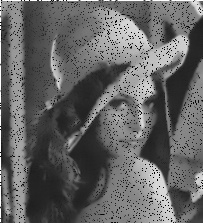
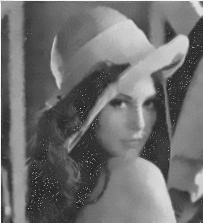
change some params about gauss noise

diff --git a/Denoising/Denoise.py b/Denoising/Denoise.py
@@ -4,7 +4,7 @@ import numpy as np
 import tools.tools as T
 
 origin_path = "Imgs/lena.jpg"
-img_path = "Imgs/Image_pepper.jpg"
+img_path = "Imgs/Image_gaussian.jpg"
 img_save_path = "Imgs/"
 logfile_path = "Imgs/PSNR.txt"
 f = open(logfile_path,"w",encoding='utf=8')
@@ -15,7 +15,7 @@ print("原始的峰值信噪比：",T.psnr(origin_img,img))
 f.write("原始的峰值信噪比："+str(T.psnr(origin_img,img)))
 f.write("\n")
 # Gaussian Filter 高斯滤波
-out = sp.gauss.gaussian_filter(img, kernel_size=3, sigmax=1.3)
+out = sp.gauss.gaussian_filter(img, kernel_size=3, sigmax=0)
 # Save result
 cv2.imwrite(img_save_path + "gauss_out.jpg", out)
 # cv2.imshow("gauss_result", out)

diff --git a/Denoising/Adding_noise/noise.py b/Denoising/Adding_noise/noise.py
@@ -35,7 +35,7 @@ def noise( imgpath , m ) :
     prob = 0.1 # the prob of pepper noise in s&p
     thres = 1 - prob # the prob of salt noise in s&p
     mean = 0 # mean in gaussian noise
-    var = 0.001 # variance in gaussian noise
+    var = 0.01 # variance in gaussian noise
 
     if m == "random" :
         rows, cols, chn = img.shape

diff --git a/Denoising/CreateNoiseImg.py b/Denoising/CreateNoiseImg.py
@@ -3,7 +3,7 @@ import Adding_noise.noise as noise
 
 def main():
     imgpath = "Imgs/lena.jpg"
-    m = "pepper"
+    m = "gaussian"
     cv2.imshow("Image", noise.noise(imgpath,"0"))
     cv2.imshow("Image_" + m, noise.noise(imgpath, m))
     cv2.imwrite("Imgs/Image_" + m + ".jpg", noise.noise(imgpath, m))
